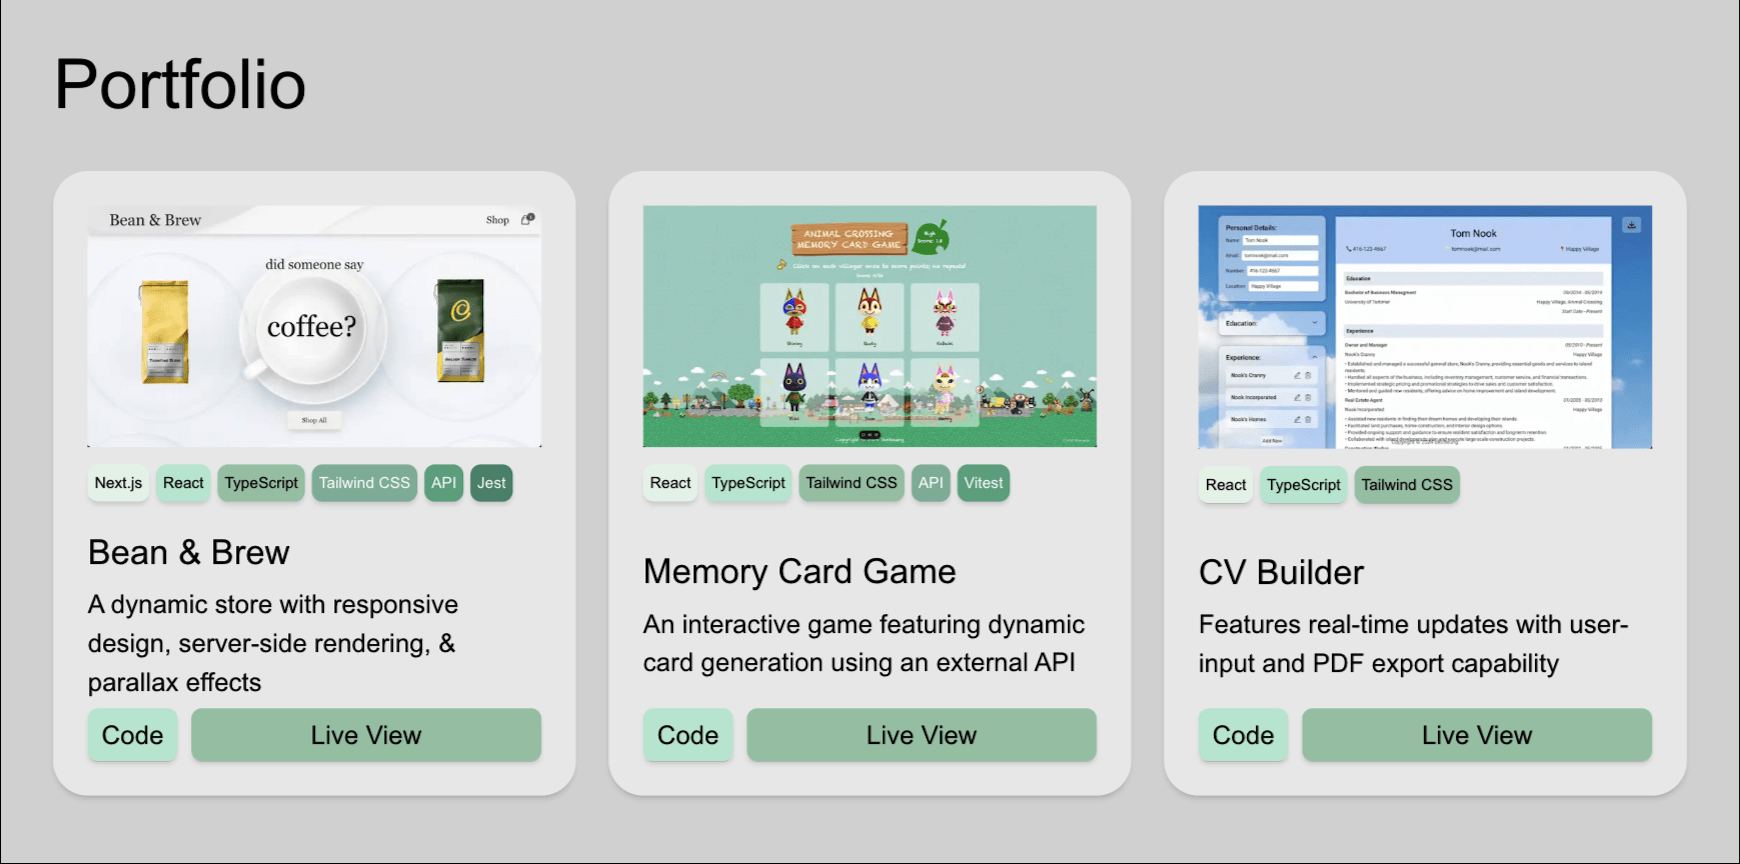
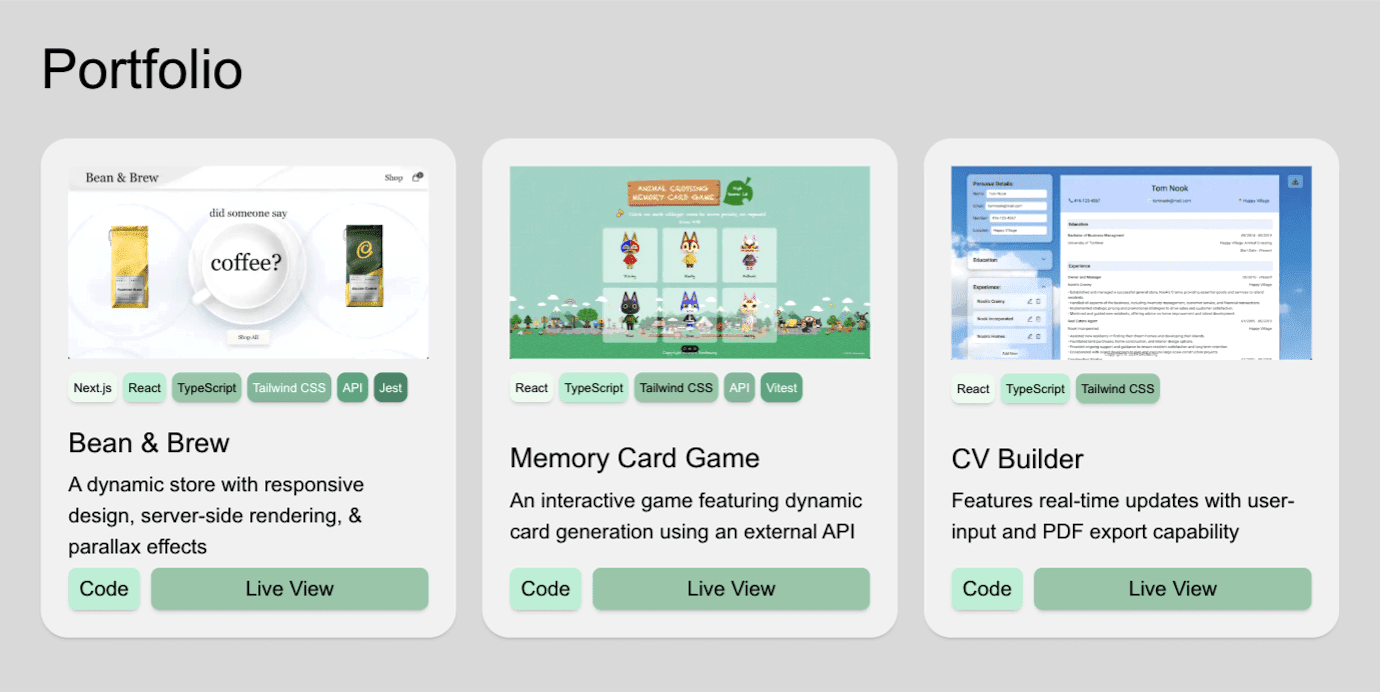
ui: update portfolio bg based on portfolio-prev image

diff --git a/src/app/components/Content.tsx b/src/app/components/Content.tsx
@@ -25,7 +25,7 @@ const PortfolioPreview = React.memo(() => {
 const PortfolioContent = React.memo(() => {
   return (
     <section
-      className="flex w-full items-end h-full py-40 px-60 gap-40 bg-[url(/portfolio-prev.png)] bg-cover bg-center bg-no-repeat"
+      className="flex w-full items-end h-full py-40 px-60 gap-40 bg-[url(/portfolio.png)] bg-cover bg-center bg-no-repeat"
       onClick={(e: React.MouseEvent<HTMLButtonElement>) => {
         e.stopPropagation();
       }}
